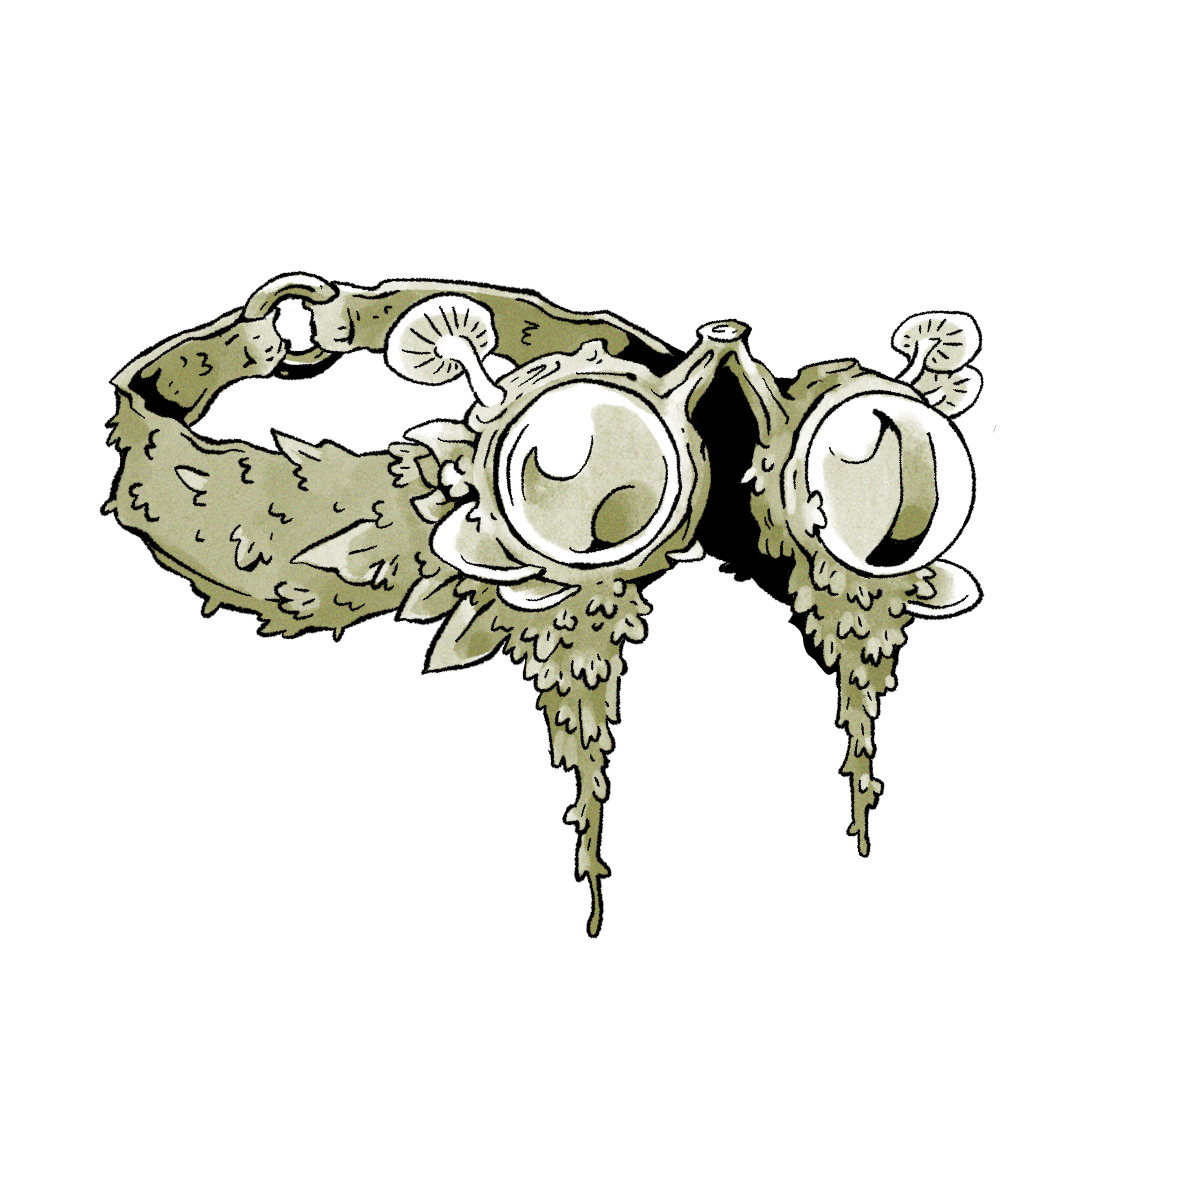
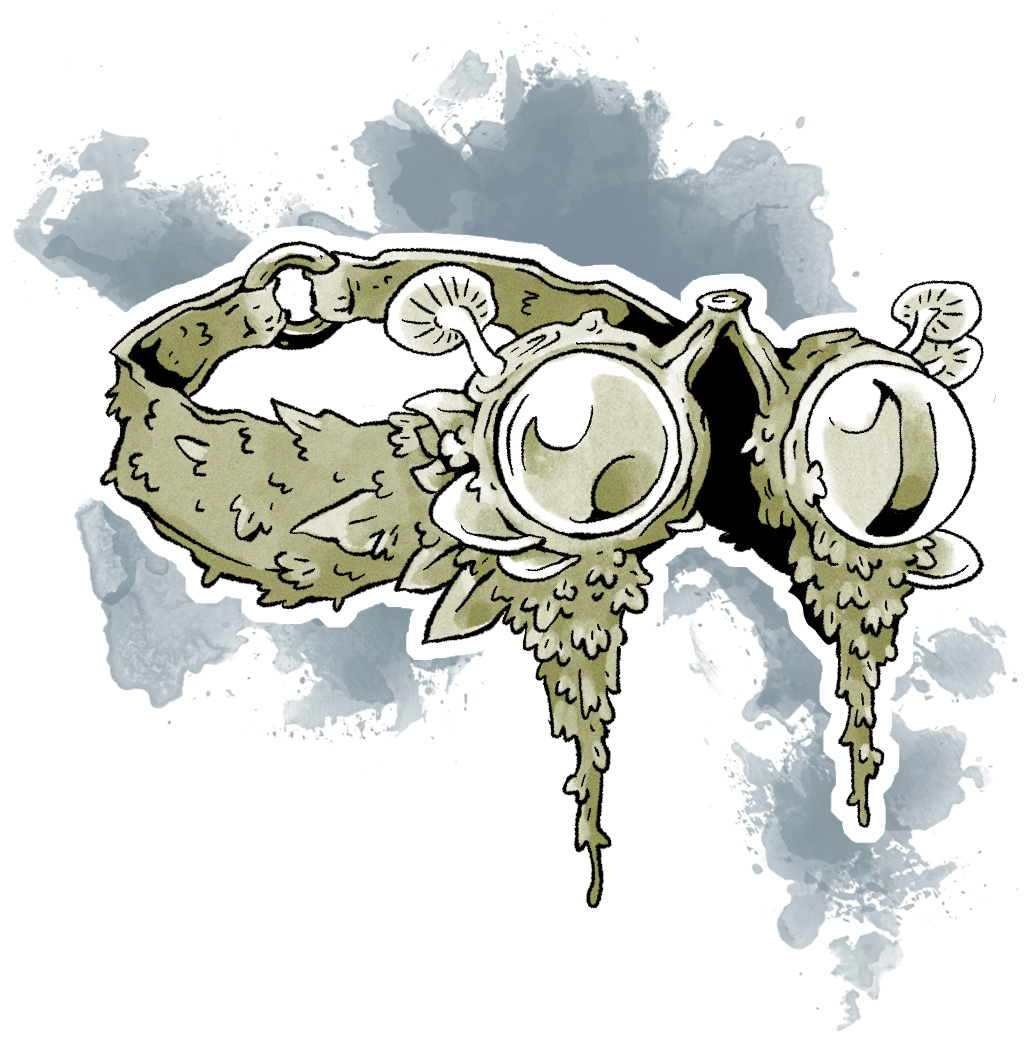
bog goggles art

diff --git a/_posts/wondrous/A-C/2020-05-28-bog-goggles.md b/_posts/wondrous/A-C/2020-05-28-bog-goggles.md
@@ -23,6 +23,8 @@ tags:
   - Marsh
   - Visibility
   - Underwater
+item_image: "/images/item_art/bog-goggles.png"
+image_artist: Odd Gob
 item_idea: 
 item_co_creator: 
 item_updated: 2021-03-08
